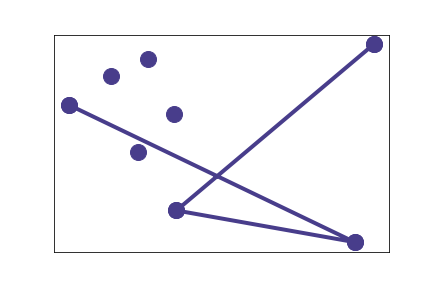
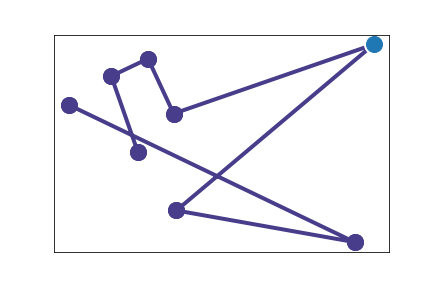
More figs, optimistic figs

Changed region(s): [[0.2708, 0.125, 0.9028, 0.4062], [0.2407, 0.2812, 0.331, 0.5]]

diff --git a/metavid.py b/metavid.py
@@ -66,9 +66,9 @@ class metavid:
 			.mkdir(parents=True, exist_ok=True)
 		)
 		self.plot_filenames = [] # re-initialize
+		frame1 = plt.gca()
 		for i in range(0,self.n_atoms):
 			if fig_type==2 or fig_type==3:#Is it a spline?
-				frame1 = plt.gca()
 				# Olive Spline
 				# Coordinates
 				totBaseX = self.atoms[0,:]
@@ -79,7 +79,7 @@ class metavid:
 				totSpline = make_interp_spline(totBaseT,[totBaseX,totBaseY], axis=1, k=2)
 				
 				if fig_type==2: #No history
-					oldBaseX = self.atoms[0,0:i+1]
+					oldBaseX = self.atoms[0,:]
 					oldSize = oldBaseX.size
 					oldSplineT = np.linspace(0, oldSize-1, 500)
 					# Spline
@@ -123,17 +123,7 @@ class metavid:
 						c="tab:gray", linewidth = 4
 					)
 				
-					#History and Location
-					plt.plot(
-						self.atoms[0,i],
-						self.atoms[1,i], 
-						c="white", marker='o', markersize=20, linestyle = 'none'
-						)
-					plt.plot(
-						self.atoms[0,i],
-						self.atoms[1,i], 
-						c="tab:blue", marker='o', markersize=16
-						)
+					# Don't generate a history marker on the first frame
 					if i>0:
 						plt.plot(
 							self.atoms[0,0:i],
@@ -142,20 +132,32 @@ class metavid:
 							)
 
 			else: #Not a spline
-				frame1 = plt.gca()
 				if fig_type == 1:
 					plt.plot(
-						self.atoms[0,0:i+1],
-						self.atoms[1,0:i+1], 
+						self.atoms[0,:],
+						self.atoms[1,:], 
 						c="darkslateblue",linewidth = 4, markersize=16, marker='o'
 						)
 						
-					#History and Location
 					plt.plot(
 						self.atoms[0,:],
 						self.atoms[1,:], 
 						c="darkslateblue", marker='o', markersize=16, linestyle = 'none'
 						)
+				else:
+					raise("Invalid fig_type specified.")
+			
+			#History and Location
+			plt.plot(
+				self.atoms[0,i],
+				self.atoms[1,i], 
+				c="white", marker='o', markersize=20, linestyle = 'none'
+				)
+			plt.plot(
+				self.atoms[0,i],
+				self.atoms[1,i], 
+				c="tab:blue", marker='o', markersize=16
+				)
 			
 			frame1.axes.xaxis.set_visible(False)
 			frame1.axes.yaxis.set_visible(False)

diff --git a/example/figureTesting.py b/example/figureTesting.py
@@ -20,21 +20,21 @@ filename_s=f'testFigs_fresh{i}/straight{i}'
 filename_b=f'testFigs_fresh{i}/spline{i}'
 filename_a=f'testFigs_fresh{i}/color{i}'
 mv.overlay_all_plots(
-	starting_scene_i=1, fig_type = 1, filename_base=filename_s, file_type = 'png'# so first (i=0) scene doesn't get a plot
+	starting_scene_i=1, fig_type = 1, filename_base=filename_s, file_type = 'pdf'# so first (i=0) scene doesn't get a plot
 )
 mv = metavid('variables.mp4')
 mv.get_scene_transitions() # this saves into mv.timestamps
 mv.load_atoms(f'tools/pickle_{i}.pkl')
 
 mv.overlay_all_plots(
-	starting_scene_i=1, fig_type = 2, filename_base=filename_b, file_type = 'png'# so first (i=0) scene doesn't get a plot
+	starting_scene_i=1, fig_type = 2, filename_base=filename_b, file_type = 'pdf'# so first (i=0) scene doesn't get a plot
 )
 mv = metavid('variables.mp4')
 mv.get_scene_transitions() # this saves into mv.timestamps
 mv.load_atoms(f'tools/pickle_{i}.pkl')
 
 mv.overlay_all_plots(
-	starting_scene_i=1, fig_type = 3, filename_base=filename_a, file_type = 'png'# so first (i=0) scene doesn't get a plot
+	starting_scene_i=1, fig_type = 3, filename_base=filename_a, file_type = 'pdf'# so first (i=0) scene doesn't get a plot
 )
 
 # run video processing and export video
